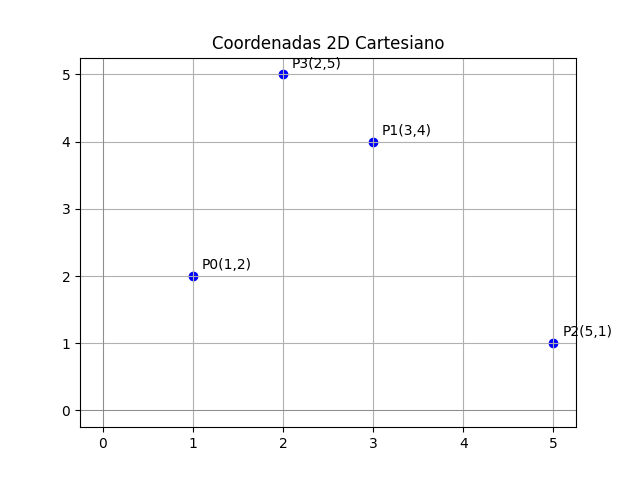
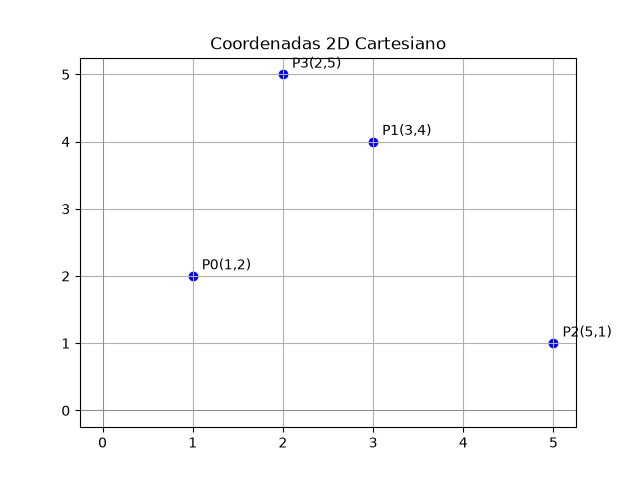
Ajustes Aula 2_0

diff --git a/aula-01_1/src/janela_opengl.py b/aula-01_1/src/janela_opengl.py
@@ -1,5 +1,5 @@
 """
-Aula 1 - Introdução à Computação Gráfica - ALberane
+Aula 1 - Introdução à Computação Gráfica - Alberane
 Primeiro programa: Janela OpenGL básica com triângulo colorido
 
 Este programa demonstra:

diff --git a/aula_02_0/src/sistemas_coordenadas.py b/aula_02_0/src/sistemas_coordenadas.py
@@ -1,4 +1,10 @@
+import os
 import sys
+
+# Força o PyOpenGL a usar a plataforma GLX padrão
+os.environ['PYOPENGL_PLATFORM'] = 'glx'
+
+
 from OpenGL.GL import *
 from OpenGL.GLU import *
 from OpenGL.GLUT import *
